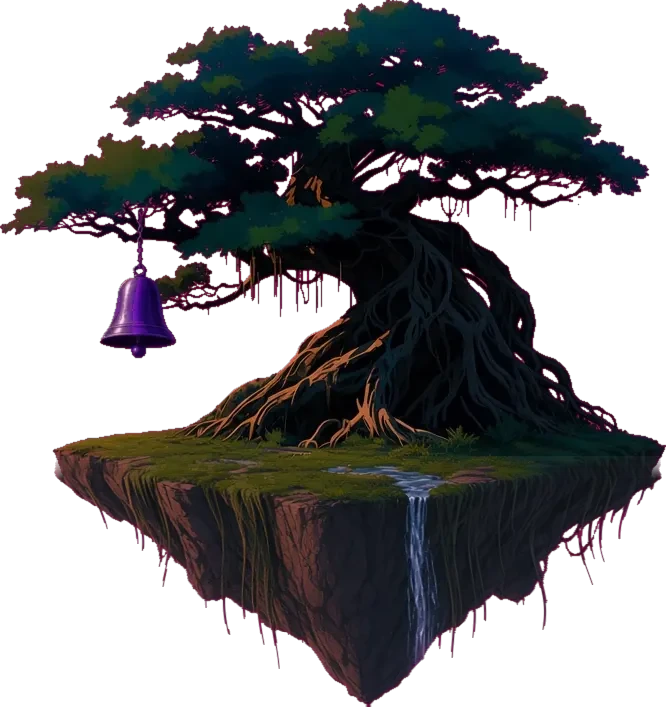
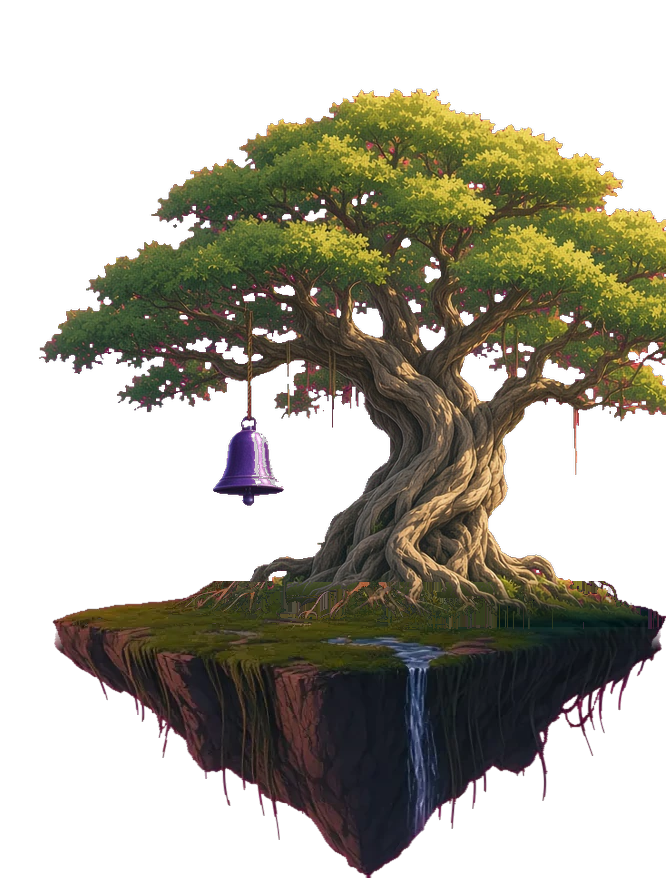
Bring the letter creatures back and give Units 9 and 10 their own trees.
Units 9 and 10 were two copies of one painting. Each island now has its own banyan, with the purple bell on 9 and the pink bell on 10, and the live rock underneath. The clouds sit on a fixed layer so a phone keeps the sky while the trail scrolls.

diff --git a/styles.css b/styles.css
@@ -3996,10 +3996,16 @@ body:has(.tmscreen) #soundfix,body:has(.u123step) #soundfix,body:has(.u789step) 
 }
 .skyhome.ledges .skyline,.skyhome.ledges .skystones{stroke:none}
 .skyhome.ledges .skywalk{display:none}
+/* Fixed layer: iOS Safari drops background-attachment:fixed, so the clouds sit on their own layer.
+   overflow:clip on the trail keeps that layer inside the sky frame while the trail scrolls. */
+.skyhome.ledges .skyfar{
+  position:fixed;left:0;top:0;right:0;bottom:0;z-index:0;pointer-events:none;
+  background:#d5e8f6 url("img/sky/sky_far.webp") center 18% / cover no-repeat;
+}
 .skyhome.ledges .skytrail{
   position:relative;overflow:clip;
   border:4px solid #7A5430;border-radius:1.35rem;
-  background:#d5e8f6 url("img/sky/sky_far.webp") center 18% / cover no-repeat fixed;
+  background:transparent;
   box-shadow:inset 0 0 0 2px #E7D3A4, 0 8px 16px rgba(70,46,20,.12);
 }
 .gridhome.bellfit.skyhome.ledges .bellpath .skystop{position:absolute;margin:0!important;width:auto;z-index:4;overflow:visible}

diff --git a/js/screens.js b/js/screens.js
@@ -593,7 +593,8 @@
     const pathSvg = document.createElementNS(NS, 'svg');
     pathSvg.setAttribute('class', 'skypath');
     pathSvg.setAttribute('aria-hidden', 'true');
-    const trailBits = [pathSvg, library].concat(cards);
+    const skyfar = ledgesHome ? h('div', { class: 'skyfar', 'aria-hidden': 'true' }) : null;
+    const trailBits = [skyfar, pathSvg, library].concat(cards).filter(Boolean);
     const zipImg = h('img', { class: 'skyfigpic', alt: '', src: 'img/zipA.webp' });
     const frillImg = h('img', { class: 'skyfigpic', alt: '', src: 'img/zip-show/frill-glide.webp' });
     const tuft = () => h('img', { class: 'skygrass', alt: '', src: 'img/sky/grass_tuft.webp' });

diff --git a/sw.js b/sw.js
@@ -1,7 +1,7 @@
 /* Island Readers sample service worker.
    Code (HTML/JS/CSS/data) is network-first so a new version always wins; the cache is only an offline fallback.
    Media (images/audio/video) is cache-first. Install never fails because of one file. */
-const CACHE = 'ir-20261128n';
+const CACHE = 'ir-20261128o';
 const ASSETS = [
  "./index.html",
  "./js/wordplay.js",
